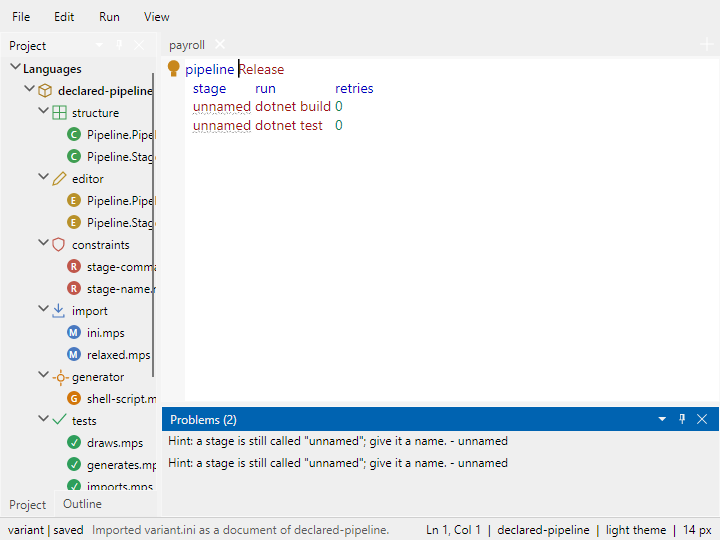
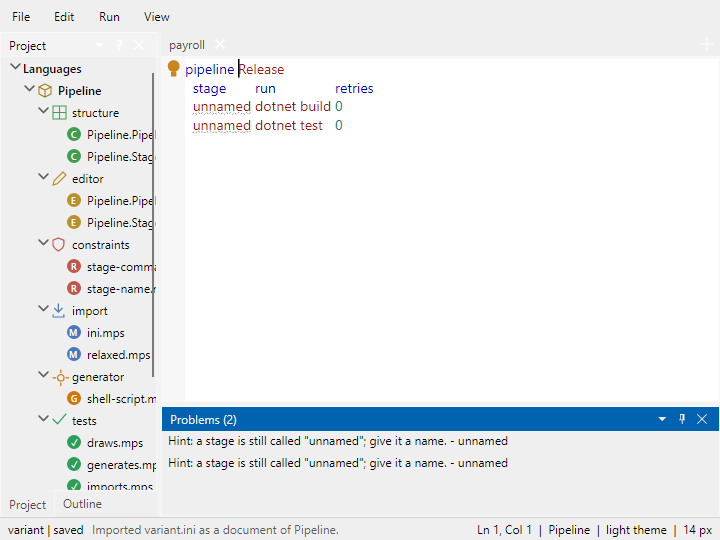
feat: the pipeline sample names its language
The sample is what a user opens first, so it is where a language root
belongs: `language.mps` names it `Pipeline` and gives it version 1.0.0,
which turns the folder's own name from the language's name into the
fallback it is meant to be.

The export names its class after the language, so the pinned export
expectations move with it - `PipelineLanguage.cs` instead of
`DeclaredLanguage.cs`, which is the same code the same definitions always
produced. The four documentation images that show a language name follow,
regenerated from the shipping control rather than edited.

Two of the three declared samples still have no root on purpose: they
show the fallback the plan promises, and the explorer image now shows
both halves of that rule side by side.

Changed region(s): [[0.5806, 0.9778, 1.0, 1.0], [0.3972, 0.9778, 0.55, 1.0], [0.0611, 0.1481, 0.2139, 0.1778]]

diff --git a/tests/Projectional.Core.Tests/LanguageExporterTests.cs b/tests/Projectional.Core.Tests/LanguageExporterTests.cs
@@ -39,13 +39,13 @@ public sealed class LanguageExporterTests
 
         var result = LanguageExporter.Export(language, "Sample.Language");
 
-        Assert.Equal(["DeclaredLanguage.cs", "README.md"], result.Files.Select(file => file.Name));
+        Assert.Equal(["PipelineLanguage.cs", "README.md"], result.Files.Select(file => file.Name));
         Assert.Null(result.Assembly);
 
         Assert.Equal(
             """
             // <auto-generated>
-            //     Generated from the declared language 'Declared'.
+            //     Generated from the declared language 'Pipeline'.
             //     Edit the definitions, not this file: the next export replaces it.
             // </auto-generated>
 
@@ -57,8 +57,8 @@ public sealed class LanguageExporterTests
 
             namespace Sample.Language;
 
-            /// <summary>The language <c>Declared</c> declares, as C#.</summary>
-            public static class DeclaredLanguage
+            /// <summary>The language <c>Pipeline</c> declares, as C#.</summary>
+            public static class PipelineLanguage
             {
                 public static IReadOnlyList<ConceptDeclaration> ConceptDeclarations { get; } =
                 [
@@ -187,7 +187,7 @@ public sealed class LanguageExporterTests
         var result = LanguageExporter.Export(Declared(), "Sample.Language", ExportOutput.Assembly);
 
         Assert.NotNull(result.Assembly);
-        Assert.Equal("DeclaredLanguage.dll", result.Assembly.Name);
+        Assert.Equal("PipelineLanguage.dll", result.Assembly.Name);
         Assert.True(result.Assembly.Bytes.Length > 0);
 
         // A PE image starts with "MZ": the bytes are an assembly, not a serialized error.
@@ -195,7 +195,7 @@ public sealed class LanguageExporterTests
         Assert.Equal((byte)'Z', result.Assembly.Bytes[1]);
 
         // The source is still there: the assembly is added to what the exporter answers, never a replacement.
-        Assert.Equal("DeclaredLanguage.cs", result.Files[0].Name);
+        Assert.Equal("PipelineLanguage.cs", result.Files[0].Name);
     }
 
     [Fact]
@@ -205,7 +205,7 @@ public sealed class LanguageExporterTests
         var result = LanguageExporter.Export(language, "Sample.Language", ExportOutput.Assembly);
 
         var assembly = AssemblyLoadContext.Default.LoadFromStream(new MemoryStream(result.Assembly!.Bytes));
-        var type = assembly.GetType("Sample.Language.DeclaredLanguage", throwOnError: true);
+        var type = assembly.GetType("Sample.Language.PipelineLanguage", throwOnError: true);
 
         Assert.NotNull(type);
 

diff --git a/tests/Projectional.Core.Tests/DeclaredSampleLanguageTests.cs b/tests/Projectional.Core.Tests/DeclaredSampleLanguageTests.cs
@@ -54,6 +54,19 @@ public sealed class DeclaredSampleLanguageTests
     }
 
     [Fact]
+    public void TheFolderNamesItsLanguageInItsRootDocument()
+    {
+        // `language.mps` beside the aspect folders is what makes the project a noun of its own: without it the name
+        // would be whatever the folder is called on this machine.
+        var language = Language();
+
+        Assert.Equal("Pipeline", language.Name);
+        Assert.Equal("1.0.0", language.Version);
+        Assert.Empty(language.Dependencies);
+        Assert.Empty(language.Extends);
+    }
+
+    [Fact]
     public void BothConceptsAreNamedThroughTheFrameworkInterface()
     {
         // Adoption in the declared path: the structure documents say `implements Framework.Named` instead of
@@ -284,6 +297,10 @@ public sealed class DeclaredSampleLanguageTests
             {
                 AssertRoundTrips(file, new Project(TextGenLanguage.Concepts));
             }
+
+            // The language root is a document of the structure language too, and the one file whose re-save would be
+            // most tempting to skip: it sits beside the folders, not inside one.
+            AssertRoundTrips(Path.Combine(directory, LanguageProject.LanguageFile), new Project(StructureLanguage.Concepts));
         }
         finally
         {

diff --git a/tests/Projectional.Core.Tests/LanguageExportWriterTests.cs b/tests/Projectional.Core.Tests/LanguageExportWriterTests.cs
@@ -29,9 +29,9 @@ public sealed class LanguageExportWriterTests
         Assert.Equal(3, written.Count);
         Assert.All(written, path => Assert.True(File.Exists(path), path));
 
-        Assert.Equal(result.Files[0].Text, File.ReadAllText(Path.Combine(target, "DeclaredLanguage.cs")));
+        Assert.Equal(result.Files[0].Text, File.ReadAllText(Path.Combine(target, "PipelineLanguage.cs")));
         Assert.Equal(result.Files[1].Text, File.ReadAllText(Path.Combine(target, "README.md")));
-        Assert.Equal(result.Assembly!.Bytes, File.ReadAllBytes(Path.Combine(target, "DeclaredLanguage.dll")));
+        Assert.Equal(result.Assembly!.Bytes, File.ReadAllBytes(Path.Combine(target, "PipelineLanguage.dll")));
     }
 
     [Fact]
